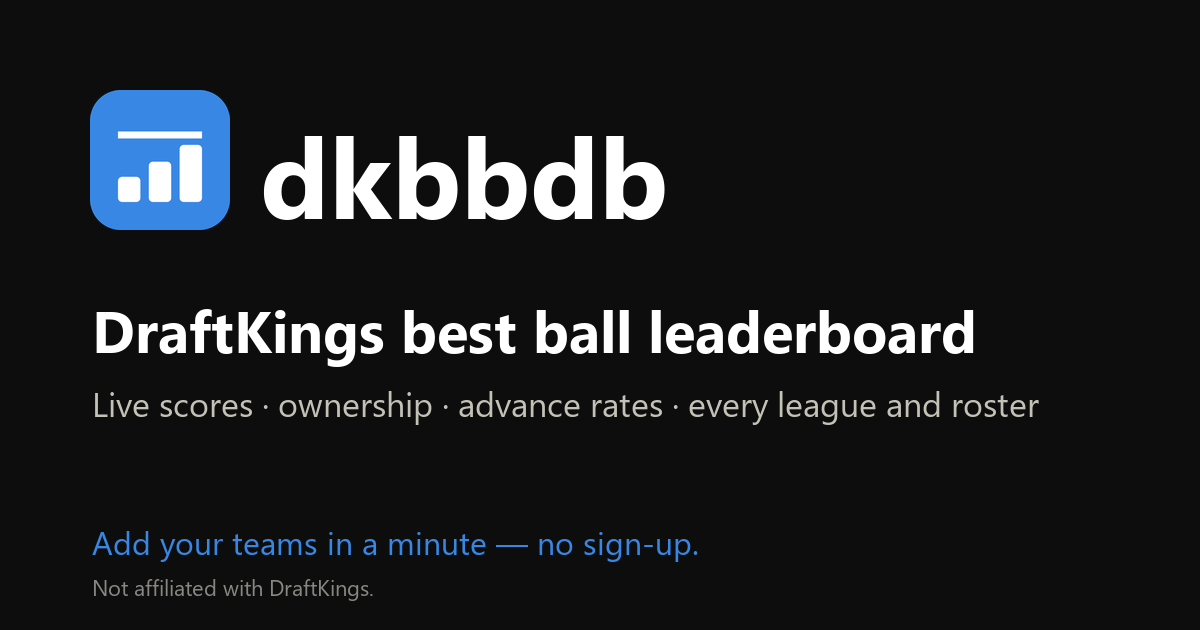
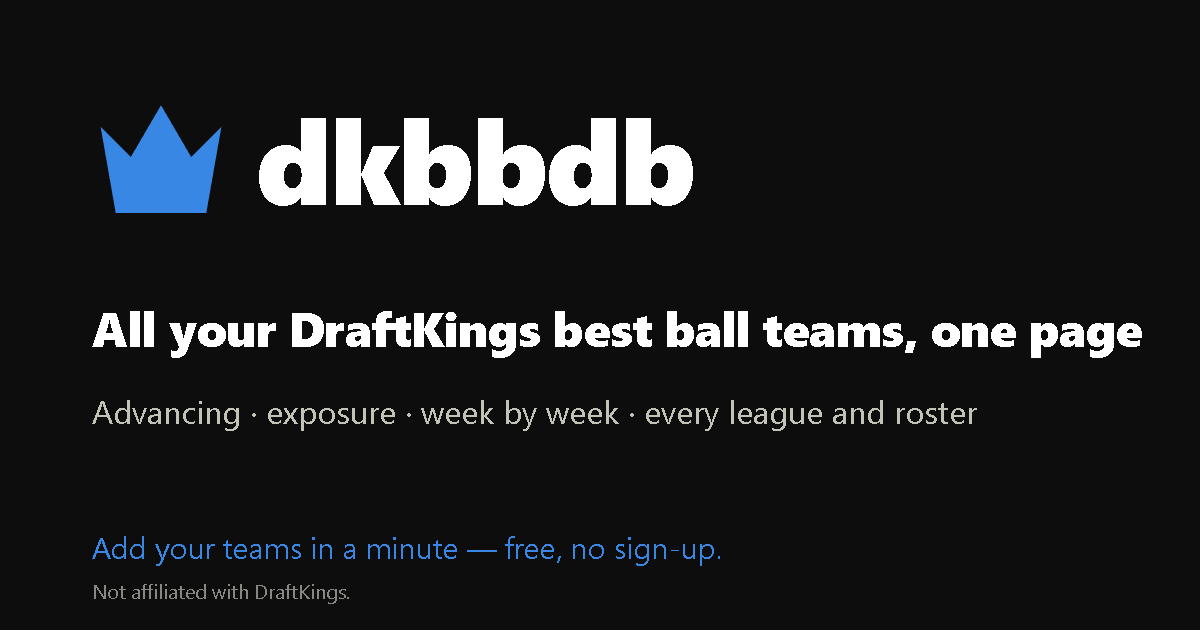
dkbbdb: the link-preview image (og.png) carries the crown and the current pitch; ?v=2 on the tags so cached previews refresh
Claude-Session: https://claude.ai/code/session_01RyTfooFpLq4T4yfve3kPDr

diff --git a/scripts/og-card.html b/scripts/og-card.html
@@ -1,0 +1,22 @@
+<!-- Source of public/og.png (the link preview on Twitter, iMessage, Discord …). Re-render with:
+     node scripts/shot.mjs "file:///<abs path>/scripts/og-card.html" public/og.png 1200 630   then bump ?v= on the og:image tags -->
+<!doctype html><meta charset="utf-8">
+<style>
+  html, body { margin: 0; background: #0d0d0d; }
+  body { width: 1200px; height: 630px; overflow: hidden; color: #fff; font-family: system-ui, -apple-system, "Segoe UI", Roboto, sans-serif; position: relative; }
+  .brand { position: absolute; left: 92px; top: 88px; display: flex; align-items: center; gap: 26px; }
+  .brand svg { width: 138px; height: 138px; }
+  .brand .word { font-size: 118px; font-weight: 800; letter-spacing: -2px; line-height: 1; }
+  h1 { position: absolute; left: 92px; top: 300px; margin: 0; font-size: 48px; white-space: nowrap; font-weight: 800; line-height: 1.15; letter-spacing: -.5px; }
+  .sub { position: absolute; left: 92px; top: 388px; font-size: 32px; color: #c3c2b7; }
+  .cta { position: absolute; left: 92px; top: 526px; font-size: 30px; color: #3987e5; }
+  .note { position: absolute; left: 92px; top: 576px; font-size: 20px; color: #898781; }
+</style>
+<div class="brand">
+  <svg viewBox="0 0 64 64"><path d="M4 18l14 14 14-24 14 24 14-14-7 40H11z" fill="#3987e5"/></svg>
+  <div class="word">dkbbdb</div>
+</div>
+<h1>All your DraftKings best ball teams, one page</h1>
+<div class="sub">Advancing · exposure · week by week · every league and roster</div>
+<div class="cta">Add your teams in a minute — free, no sign-up.</div>
+<div class="note">Not affiliated with DraftKings.</div>

diff --git a/public/leaderboard.html b/public/leaderboard.html
@@ -7,7 +7,7 @@
 <meta name="description" content="A live-scored leaderboard of DraftKings best ball teams, one tournament at a time: pick a user, the players a team must have or must not have, and open any team's league and roster.">
 <meta property="og:title" content="dkbbdb — DraftKings best ball leaderboard">
 <meta property="og:description" content="Live-scored best ball teams by tournament: ownership, advance rates, every league and roster. Add your teams in a minute, no sign-up.">
-<meta property="og:image" content="https://dkbbdb.com/og.png">
+<meta property="og:image" content="https://dkbbdb.com/og.png?v=2">
 <meta property="og:url" content="https://dkbbdb.com/leaderboard">
 <meta property="og:type" content="website">
 <meta name="twitter:card" content="summary_large_image">

diff --git a/public/index.html b/public/index.html
@@ -7,7 +7,7 @@
 <meta name="description" content="Sync your DraftKings best ball teams once and get a page with every team's league place, cut line and points, and your player exposure, scored live from public NFL stats. No sign-up.">
 <meta property="og:title" content="dkbbdb — your DraftKings best ball teams, scored live">
 <meta property="og:description" content="League place, cut line, points and player exposure for every one of your DraftKings best ball teams. About a minute, no sign-up.">
-<meta property="og:image" content="https://dkbbdb.com/og.png">
+<meta property="og:image" content="https://dkbbdb.com/og.png?v=2">
 <meta property="og:url" content="https://dkbbdb.com/">
 <meta property="og:type" content="website">
 <meta name="twitter:card" content="summary_large_image">

diff --git a/public/u.html b/public/u.html
@@ -5,7 +5,7 @@
 <meta name="viewport" content="width=device-width, initial-scale=1">
 <title>dkbbdb</title>
 <meta name="description" content="A DraftKings best ball portfolio on dkbbdb: every team's league place, cut line and points, and player exposure, scored live from public NFL stats.">
-<meta property="og:image" content="https://dkbbdb.com/og.png">
+<meta property="og:image" content="https://dkbbdb.com/og.png?v=2">
 <meta name="twitter:card" content="summary_large_image">
 <link rel="icon" href="/favicon.svg" type="image/svg+xml">
 <link rel="alternate icon" href="/favicon.png">
